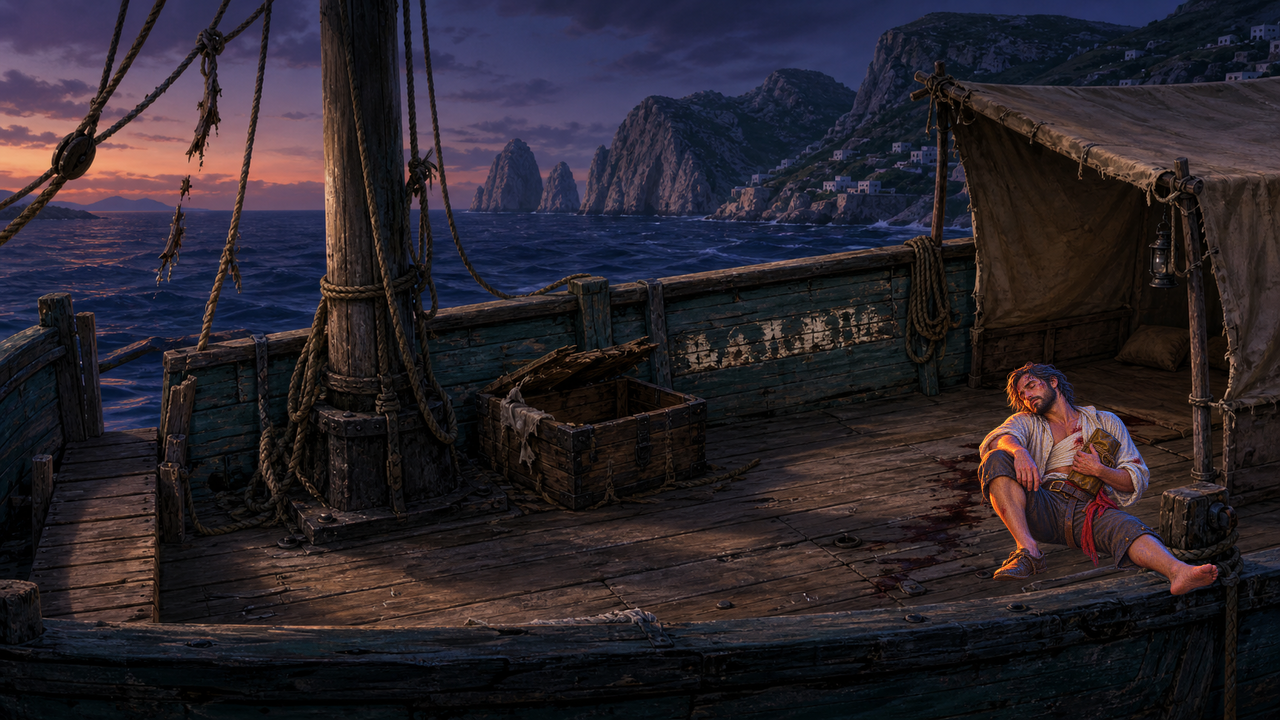
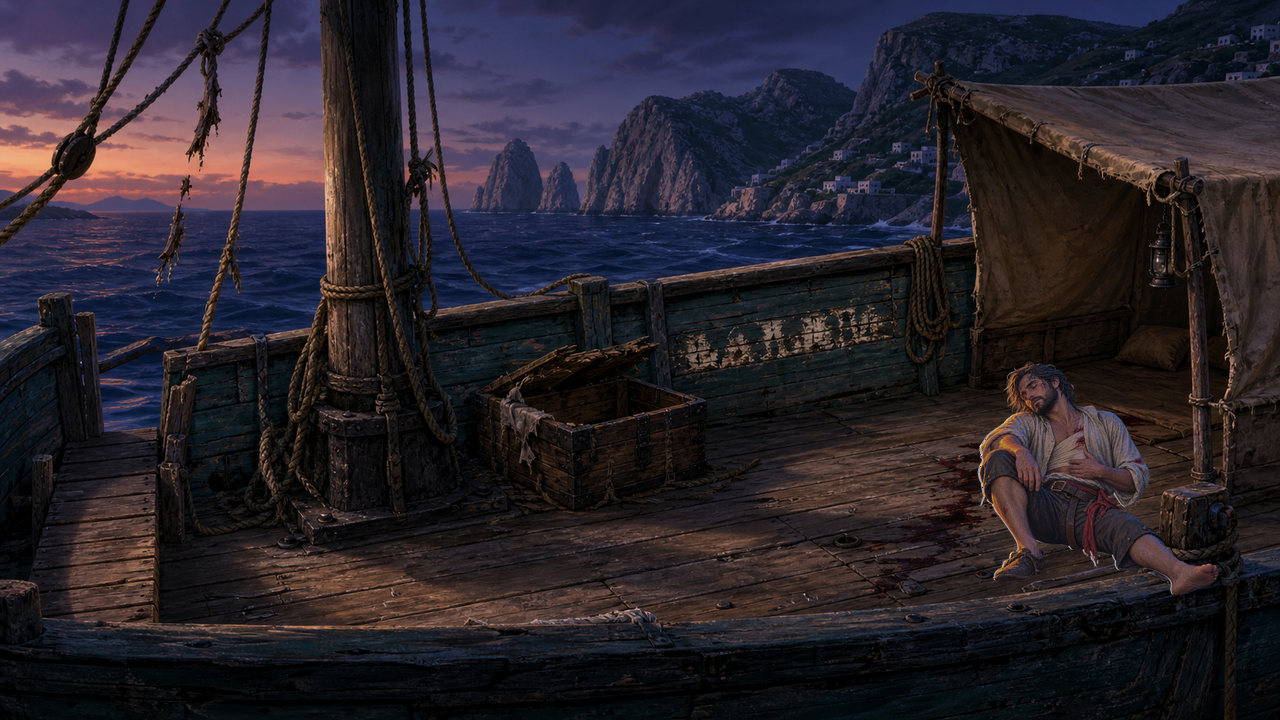
fix(example): address drifting boat review findings

Changed region(s): [[0.75, 0.4889, 0.9688, 0.825]]

diff --git a/examples/capri-1535/src/scenes/drifting-boat/index.ts b/examples/capri-1535/src/scenes/drifting-boat/index.ts
@@ -1,7 +1,12 @@
 import { type NounDefinition, type SceneDefinition } from "@asterixcapri/fondale";
 
+import { woundedSailorGroundPoint } from "../../characters/wounded-sailor";
 import { rectangle } from "../../geometry";
 import backgroundUrl from "./background.png";
+import foregroundHullUrl from "./foreground-hull-overlay.png";
+import mastRiggingUrl from "./mast-rigging-overlay.png";
+import shelterPostUrl from "./shelter-post-overlay.png";
+import shelterRoofUrl from "./shelter-roof-overlay.png";
 
 const clue = (label: string, response: string) => ({
   labels: [{ text: label }],
@@ -11,7 +16,7 @@ const clue = (label: string, response: string) => ({
 
 export const sailorHandoff = {
   michele: { groundPoint: { x: 930, y: 570 }, facing: "right" as const },
-  sailor: { groundPoint: { x: 1098, y: 602 }, facing: "left" as const },
+  sailor: { groundPoint: woundedSailorGroundPoint, facing: "left" as const },
   cameraCenter: { x: 1030, y: 430 },
 } as const;
 
@@ -33,65 +38,49 @@ export const driftingBoat = ({
   scenery: {
     mastAndCutRigging: {
       baseline: 560,
+      position: { x: 0, y: 560 },
       initialAppearance: "default",
       appearances: {
         default: {
-          kind: "background-region",
-          area: [
-            { x: 0, y: 0 },
-            { x: 410, y: 0 },
-            { x: 410, y: 420 },
-            { x: 390, y: 420 },
-            { x: 390, y: 535 },
-            { x: 300, y: 560 },
-            { x: 210, y: 520 },
-            { x: 210, y: 390 },
-            { x: 0, y: 350 },
-          ],
+          animations: { idle: { sheet: { image: mastRiggingUrl, frames: [{ x: 0, y: 0, width: 410, height: 560 }] }, timing: { framesPerSecond: 1, loop: true } } },
+          roles: { default: "idle" },
+          visualAnchor: { x: 0, y: 560 },
         },
       },
     },
     shelterRoof: {
       baseline: 615,
+      position: { x: 895, y: 255 },
       initialAppearance: "default",
       appearances: {
         default: {
-          kind: "background-region",
-          area: [
-            { x: 895, y: 35 },
-            { x: 1280, y: 35 },
-            { x: 1280, y: 255 },
-            { x: 930, y: 255 },
-          ],
+          animations: { idle: { sheet: { image: shelterRoofUrl, frames: [{ x: 0, y: 0, width: 385, height: 220 }] }, timing: { framesPerSecond: 1, loop: true } } },
+          roles: { default: "idle" },
+          visualAnchor: { x: 0, y: 220 },
         },
       },
     },
     shelterPost: {
       baseline: 615,
+      position: { x: 1180, y: 615 },
       initialAppearance: "default",
       appearances: {
         default: {
-          kind: "background-region",
-          area: rectangle(1180, 150, 1245, 615),
+          animations: { idle: { sheet: { image: shelterPostUrl, frames: [{ x: 0, y: 0, width: 65, height: 465 }] }, timing: { framesPerSecond: 1, loop: true } } },
+          roles: { default: "idle" },
+          visualAnchor: { x: 0, y: 465 },
         },
       },
     },
     foregroundHull: {
       baseline: 625,
+      position: { x: 0, y: 720 },
       initialAppearance: "default",
       appearances: {
         default: {
-          kind: "background-region",
-          area: [
-            { x: 0, y: 580 },
-            { x: 160, y: 600 },
-            { x: 430, y: 615 },
-            { x: 760, y: 605 },
-            { x: 1020, y: 590 },
-            { x: 1280, y: 575 },
-            { x: 1280, y: 720 },
-            { x: 0, y: 720 },
-          ],
+          animations: { idle: { sheet: { image: foregroundHullUrl, frames: [{ x: 0, y: 0, width: 1280, height: 145 }] }, timing: { framesPerSecond: 1, loop: true } } },
+          roles: { default: "idle" },
+          visualAnchor: { x: 0, y: 145 },
         },
       },
     },

diff --git a/examples/capri-1535/src/characters/wounded-sailor/index.ts b/examples/capri-1535/src/characters/wounded-sailor/index.ts
@@ -4,10 +4,12 @@ import staticUrl from "./static.png";
 
 const staticFrame = [{ x: 0, y: 0, width: 256, height: 256 }];
 
+export const woundedSailorGroundPoint = { x: 1098, y: 602 } as const;
+
 /** One deliberately static presentation; all Facings reuse the same Runtime image. */
 export const woundedSailor = ({
   initialScene: "driftingBoat",
-  initialGroundPoint: { x: 1098, y: 602 },
+  initialGroundPoint: woundedSailorGroundPoint,
   initialFacing: "left",
   initialAppearance: "wounded",
   appearances: {
@@ -35,7 +37,7 @@ export const woundedSailor = ({
     cases: [{
       verb: "look-at",
       response: {
-        text: "Respira appena. Stringe al petto un involto cerato, come se fosse l'ultima cosa rimasta da difendere.",
+        text: "Respira appena. Tiene una mano sulle bende, come se anche quel piccolo gesto gli costasse fatica.",
       },
     }, {
       verb: "talk-to",

diff --git a/examples/capri-1535/test/drifting-boat.spec.ts b/examples/capri-1535/test/drifting-boat.spec.ts
@@ -39,6 +39,10 @@ test("the isolated drifting-boat package boards, explores every clue and reaches
   }))).toEqual(sceneSize);
   await expect.poll(() => [...runtimeAssets].sort()).toEqual([
     "background.png",
+    "foreground-hull-overlay.png",
+    "mast-rigging-overlay.png",
+    "shelter-post-overlay.png",
+    "shelter-roof-overlay.png",
     "static.png",
   ]);
 

diff --git a/.scratch/capri-1535-playable-engine-showcase/issues/05-build-drifting-boat-scene-package.md b/.scratch/capri-1535-playable-engine-showcase/issues/05-build-drifting-boat-scene-package.md
@@ -7,16 +7,30 @@ before the canonical final encounter and bundle transfer are integrated.
 
 **Blocked by:** 01 — Lock the project scale and reference Michele.
 
-**Status:** claimed
+**Status:** resolved
 
-- [ ] The drifting boat has an accepted dusk Composition Art Master, clean Background Art Master, Runtime Background and exact-size geometry diagnostic.
-- [ ] The intended Scene Size is `1280×720` and changes only if final blocking proves another exact size necessary.
-- [ ] The cramped vessel supports a clear connected route, valid approaches and native-resolution Michele without implausible deck scale.
-- [ ] Cut rigging, a forced chest, an abraded vessel name and blood form a readable environmental trail.
-- [ ] Every clue has a valid Hotspot and remains environmental storytelling rather than a blocking mechanical puzzle.
-- [ ] The wounded sailor is a stationary Character represented by exactly one newly produced scale-correct static Runtime image, with no presentation variants.
-- [ ] Foreground hull, rigging and shelter elements occlude Michele intentionally without navigation clipping.
-- [ ] The composition reserves the exact handoff position and framing required by the later bundle Sequence.
-- [ ] Dusk lighting remains part of the shared illustrated neo-retro language established by the other Scenes.
-- [ ] An isolated browser fixture boards, explores and reaches the sailor through the public packaged API.
-- [ ] The package builds without depending on the harbour, cloister or fortification Scene packages.
+- [x] The drifting boat has an accepted dusk Composition Art Master, clean Background Art Master, Runtime Background and exact-size geometry diagnostic.
+- [x] The intended Scene Size is `1280×720` and changes only if final blocking proves another exact size necessary.
+- [x] The cramped vessel supports a clear connected route, valid approaches and native-resolution Michele without implausible deck scale.
+- [x] Cut rigging, a forced chest, an abraded vessel name and blood form a readable environmental trail.
+- [x] Every clue has a valid Hotspot and remains environmental storytelling rather than a blocking mechanical puzzle.
+- [x] The wounded sailor is a stationary Character represented by exactly one newly produced scale-correct static Runtime image, with no presentation variants.
+- [x] Foreground hull, rigging and shelter elements occlude Michele intentionally without navigation clipping.
+- [x] The composition reserves the exact handoff position and framing required by the later bundle Sequence.
+- [x] Dusk lighting remains part of the shared illustrated neo-retro language established by the other Scenes.
+- [x] An isolated browser fixture boards, explores and reaches the sailor through the public packaged API.
+- [x] The package builds without depending on the harbour, cloister or fortification Scene packages.
+
+## Comments
+
+- 2026-08-17 — Completed the independent `1280×720` Scene package with clean
+  and assembled Art Masters, four separated depth overlays, an exact geometry
+  diagnostic, one static wounded-sailor Runtime image and actual-size Character
+  diagnostic. The isolated browser fixture boards from a stub, exercises all
+  four environmental clues, checks far/middle/near Michele scale and reaches
+  the sailor through the packaged public API.
+- 2026-08-17 — Root and Example builds pass. The isolated boat verification
+  passes. The root browser suite is load-sensitive in unrelated pre-existing
+  animation/Camera/HUD tests (308/311 parallel; targeted retries pass), and the
+  Example's five canonical acceptance cases remain stale against this
+  harbour-only base; all independent Scene package fixtures pass.

diff --git a/examples/capri-1535/art/characters/wounded-sailor/provenance.md b/examples/capri-1535/art/characters/wounded-sailor/provenance.md
@@ -3,13 +3,17 @@
 `static-art-master.png` is the untouched `1254×1254` lossless output produced
 on 2026-08-16 with Codex's built-in image-generation tool. The prompt requested
 one unnamed wounded 1535 Mediterranean sailor, seated/reclining toward
-screen-left, holding an oilskin bundle, lit by the boat Scene's blue-violet
-dusk and coral rim light. It explicitly prohibited alternate poses, animation
-sheets, modern objects, text and gore.
+screen-left and lit by the boat Scene's blue-violet dusk and coral rim light.
+A focused edit removed the initially generated oilskin bundle and placed his
+empty hand on his bandaged ribs, preserving the later Object handoff. Both
+requests prohibited alternate poses, animation sheets, modern objects, text
+and gore.
 
 The generated source already contains native alpha with transparent corners;
 no chroma removal was necessary. The sole Runtime image is Lanczos-fitted into
-a transparent `256×256` cell as `src/characters/wounded-sailor/static.png`.
-Its opaque bounds are `246×239+5+9`, and its stable Visual Anchor is
-`(128, 252)`. Every authored Facing references that same single image and
-one-frame presentation; there are no visual variants.
+a transparent `256×256` cell, then receives one Scene-matching derivative
+grade: brightness `76%`, saturation `68%`, a `12%` indigo dusk tint and a
+`0.25 px` edge-softening blur. The Art Master remains unchanged. The Runtime
+image lives at `src/characters/wounded-sailor/static.png`; its stable Visual
+Anchor is `(128, 252)`. Every authored Facing references that same single image
+and one-frame presentation; there are no visual variants.

diff --git a/examples/capri-1535/art/scenes/drifting-boat/provenance.md b/examples/capri-1535/art/scenes/drifting-boat/provenance.md
@@ -18,7 +18,9 @@ neo-retro language, coral horizon accent, plausible scale for Michele's
 Background deliberately contains no sailor, so removing the Character reveals
 a complete shelter and deck.
 
-The mast, rigging, shelter edges and foreground hull remain part of the
-Background artwork. Their Scene-local depth behaviour uses Background Region
-Appearances over the same clean plate, so they require no duplicated
-transparent Scenery Runtime Asset.
+The mast and rigging, shelter roof, shelter post and foreground hull are
+separated into transparent overlay Art Masters after the composition is fixed.
+Their fitted Runtime copies preserve the exact crop, position and Visual Anchor
+of those masters. Each overlay recomposes byte-for-byte over the clean plate,
+so its removal reveals complete painted timber, canvas or sea rather than a
+hole, while its Scenery Baseline supplies the intended Character occlusion.
